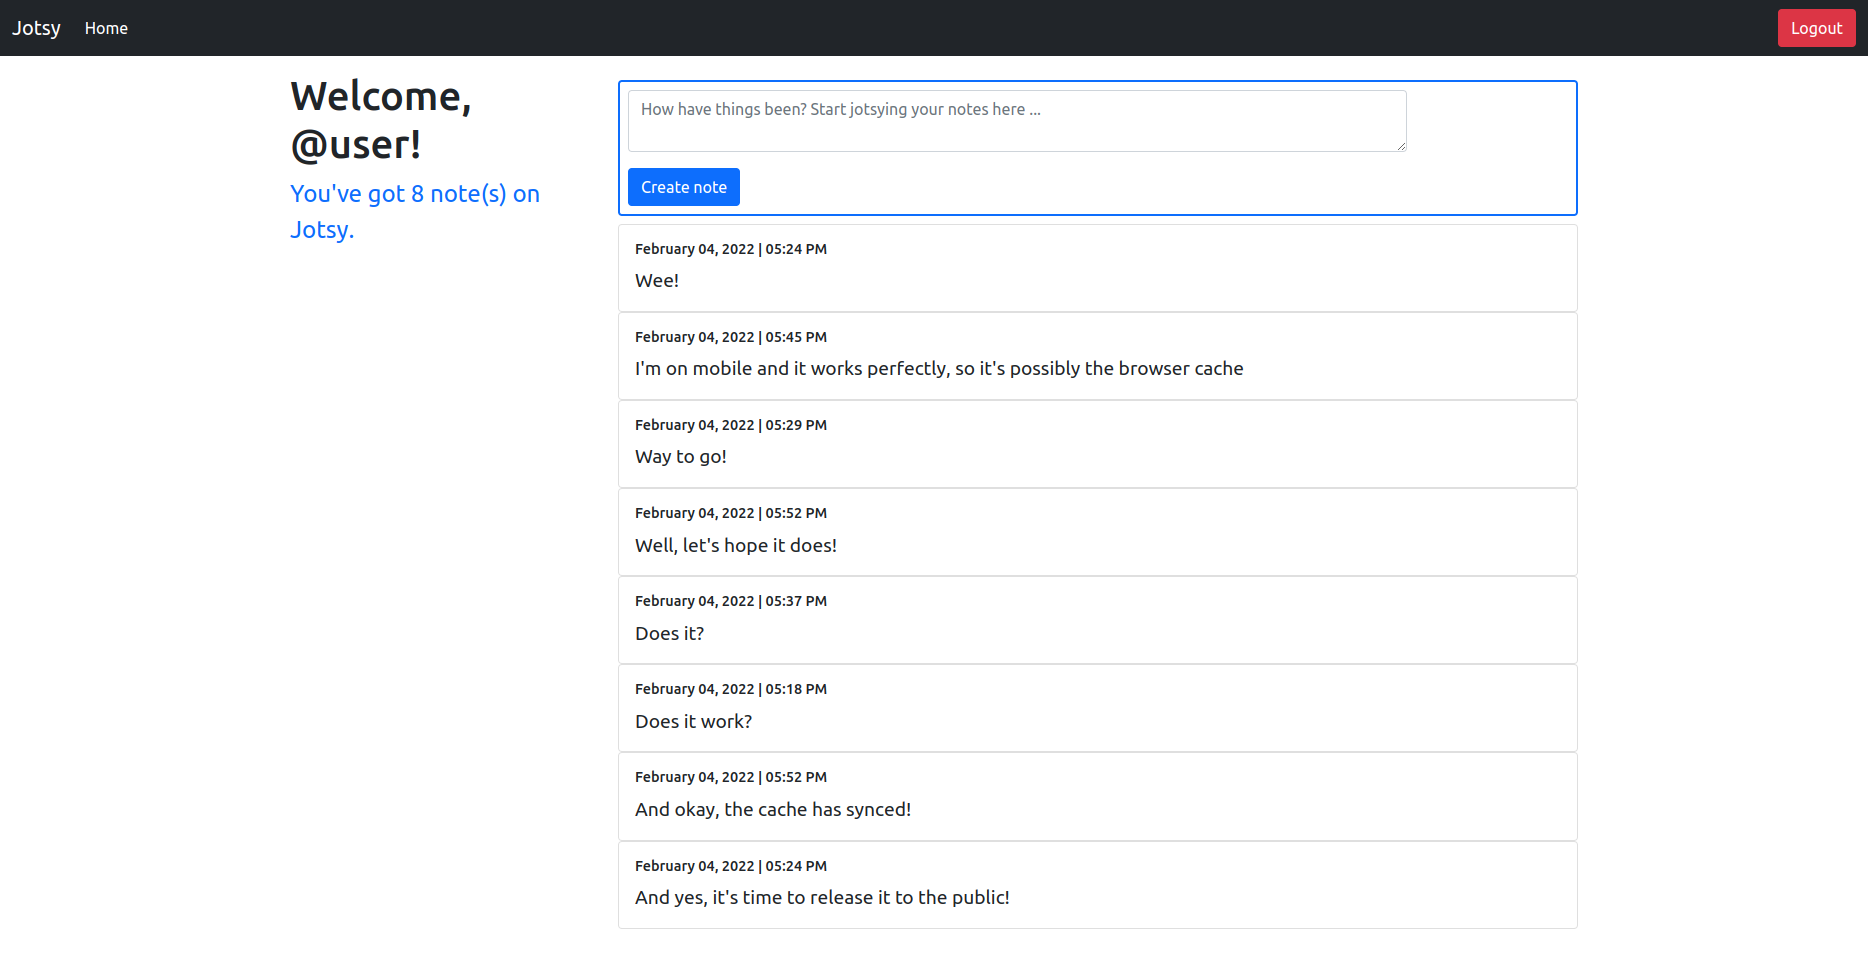
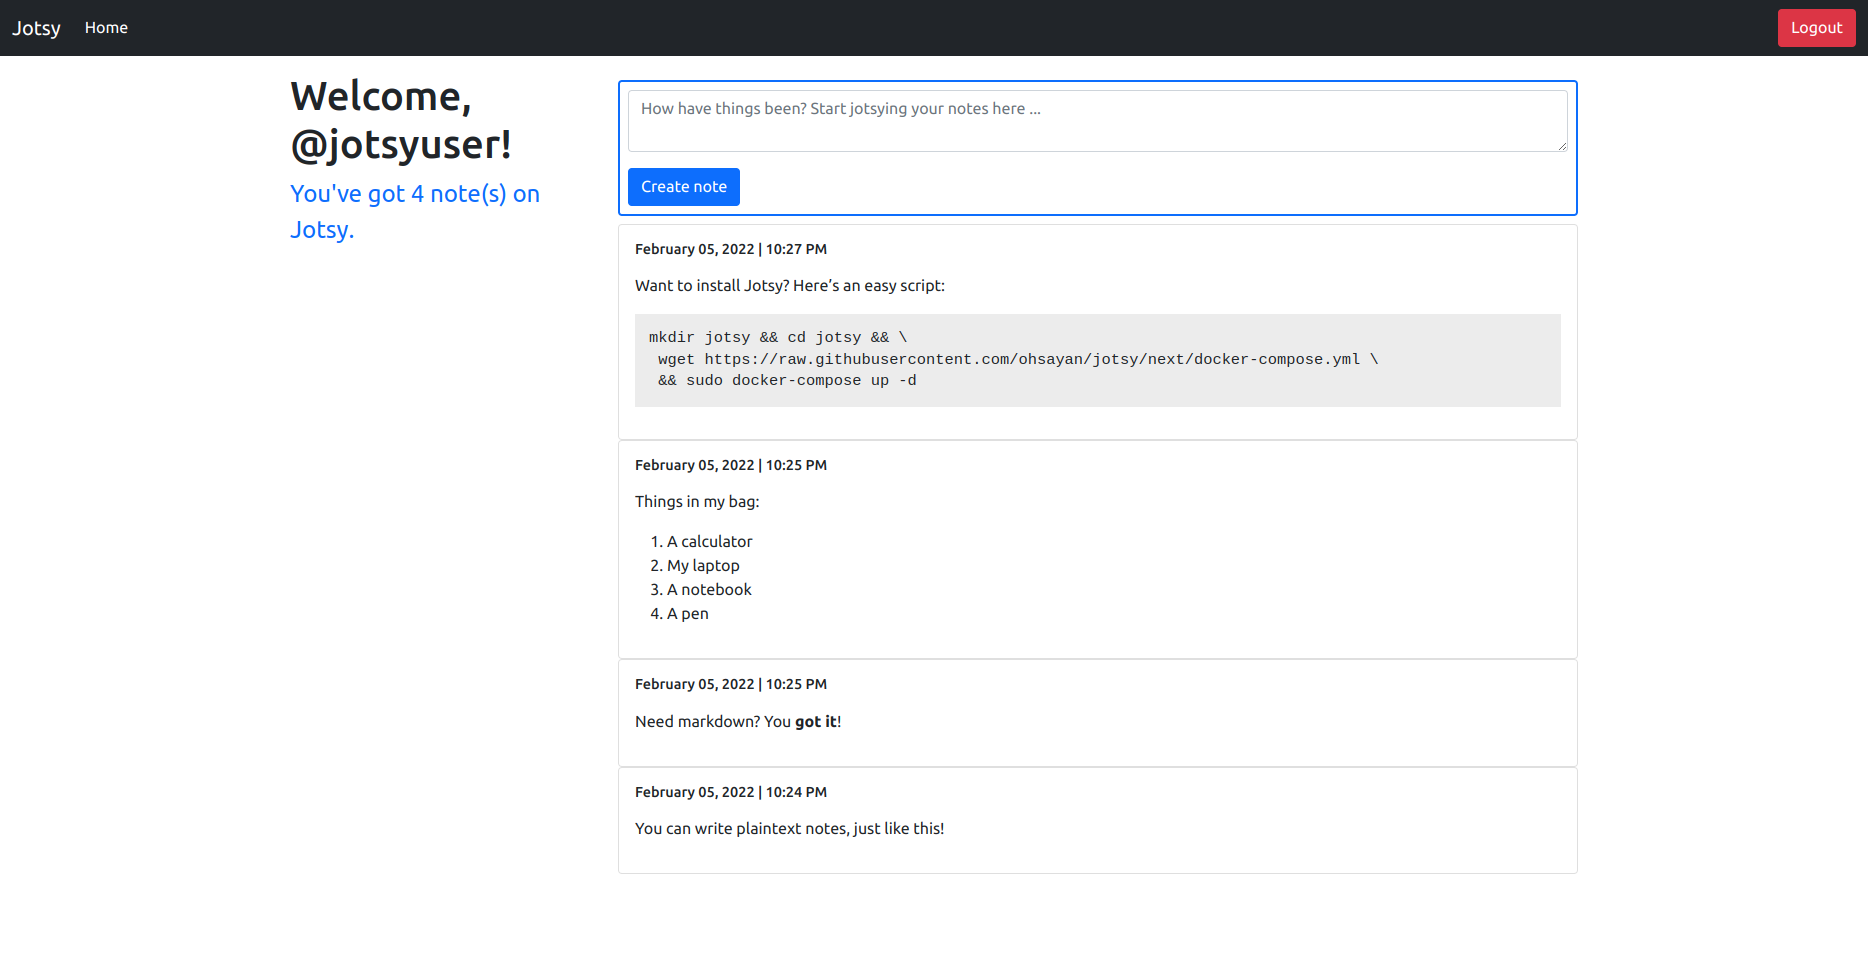
Add markdown support (#5)
* Add support for markdown

* Improve code highlighting

* Update screenshot

diff --git a/static/js/app.js b/static/js/app.js
@@ -25,12 +25,8 @@ function send(data) {
     if (XHR.readyState == XMLHttpRequest.DONE) {
       if (XHR.status === 201) {
         var element = document.createElement("span");
-        element.innerHTML = XHR.responseText;
-        if (lastNote == null) {
-          notesBody.appendChild(element);
-        } else {
-          notesBody.insertBefore(element, lastNote);
-        }
+        element.innerHTML = String(XHR.responseText);
+        notesBody.insertBefore(element, lastNote);
         lastNote = element;
         if (document.getElementById("nonewnotes") != null) {
           document.getElementById("nonewnotes").remove();
@@ -42,6 +38,7 @@ function send(data) {
         notesData.value = "";
       } else {
         noteError.hidden = false;
+        loader.hidden = true;
         noteErrorMessage.innerText = "Failed to submit new note";
       }
     }

diff --git a/static/css/app.css b/static/css/app.css
@@ -26,3 +26,37 @@
     transform: rotate(360deg);
   }
 }
+code {
+  background-color: #f1f1f1;
+  padding: 0.1em 0.2em;
+}
+
+pre {
+  background-color: #ececec;
+  line-height: 1.4;
+  overflow-x: auto;
+  padding: 1em;
+}
+
+a code:hover {
+  color: black;
+  background: var(--hovercolor);
+}
+
+.highlight pre ::selection {
+  background: lightgray;
+  color: inherit;
+}
+
+pre code {
+  background-color: transparent;
+  color: inherit;
+  font-size: 100%;
+  padding: 0;
+}
+
+@media screen and (min-width: 600px) {
+  pre code {
+    font-size: 1.1em;
+  }
+}

diff --git a/src/handlers/app.rs b/src/handlers/app.rs
@@ -53,7 +53,13 @@ pub async fn app(uname: String, db: AsyncPool) -> crate::RespTuple {
     let notes: Vec<Note> = if let Element::Array(Array::Str(e)) = ret {
         e.into_iter()
             .rev()
-            .filter_map(|v| v.map(|v| serde_json::from_str(&v).unwrap()))
+            .filter_map(|v| {
+                v.map(|v| {
+                    let mut note: Note = serde_json::from_str(&v).unwrap();
+                    note.body = markdown::to_html(&note.body);
+                    note
+                })
+            })
             .collect()
     } else {
         log::error!("Failed to LGET notes");

diff --git a/src/templates.rs b/src/templates.rs
@@ -81,19 +81,21 @@ impl SignupPage {
 }
 
 #[derive(Template)]
-#[template(path = "note.html")]
+#[template(path = "note.html", escape = "none")]
 pub struct SingleNote {
     note: Note,
 }
 
 impl SingleNote {
-    pub fn new(note: Note) -> String {
+    pub fn new(mut note: Note) -> String {
+        // update markdown
+        note.body = markdown::to_html(&note.body);
         Self { note }.render().unwrap()
     }
 }
 
 #[derive(Template)]
-#[template(path = "app.html")]
+#[template(path = "app.html", escape = "none")]
 pub struct App {
     username: String,
     count: usize,

diff --git a/README.md b/README.md
@@ -12,6 +12,7 @@ Jotsy is a self-hosted, free and open-source note taking app with a goal of simp
 
 - 🏢 Multi-user
 - ✍ Effective and distraction free notemaking
+- 🖋 Plaintext or markdown
 - 🔐 Secure authentication and session management
 - 🌱 Extremely simple to self-host
 - 🌲 Extremely light on resources
